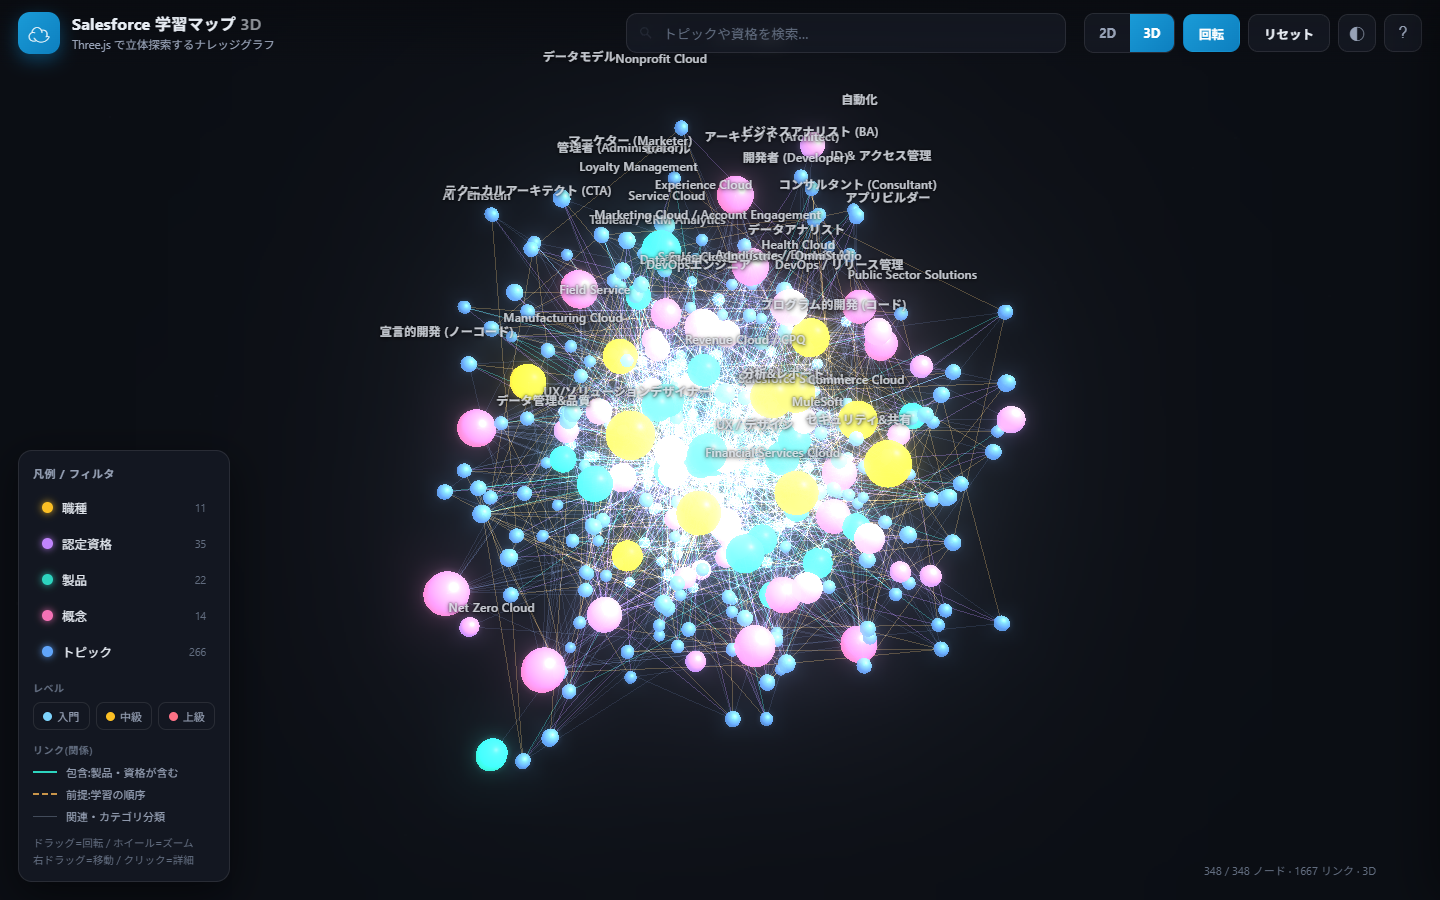
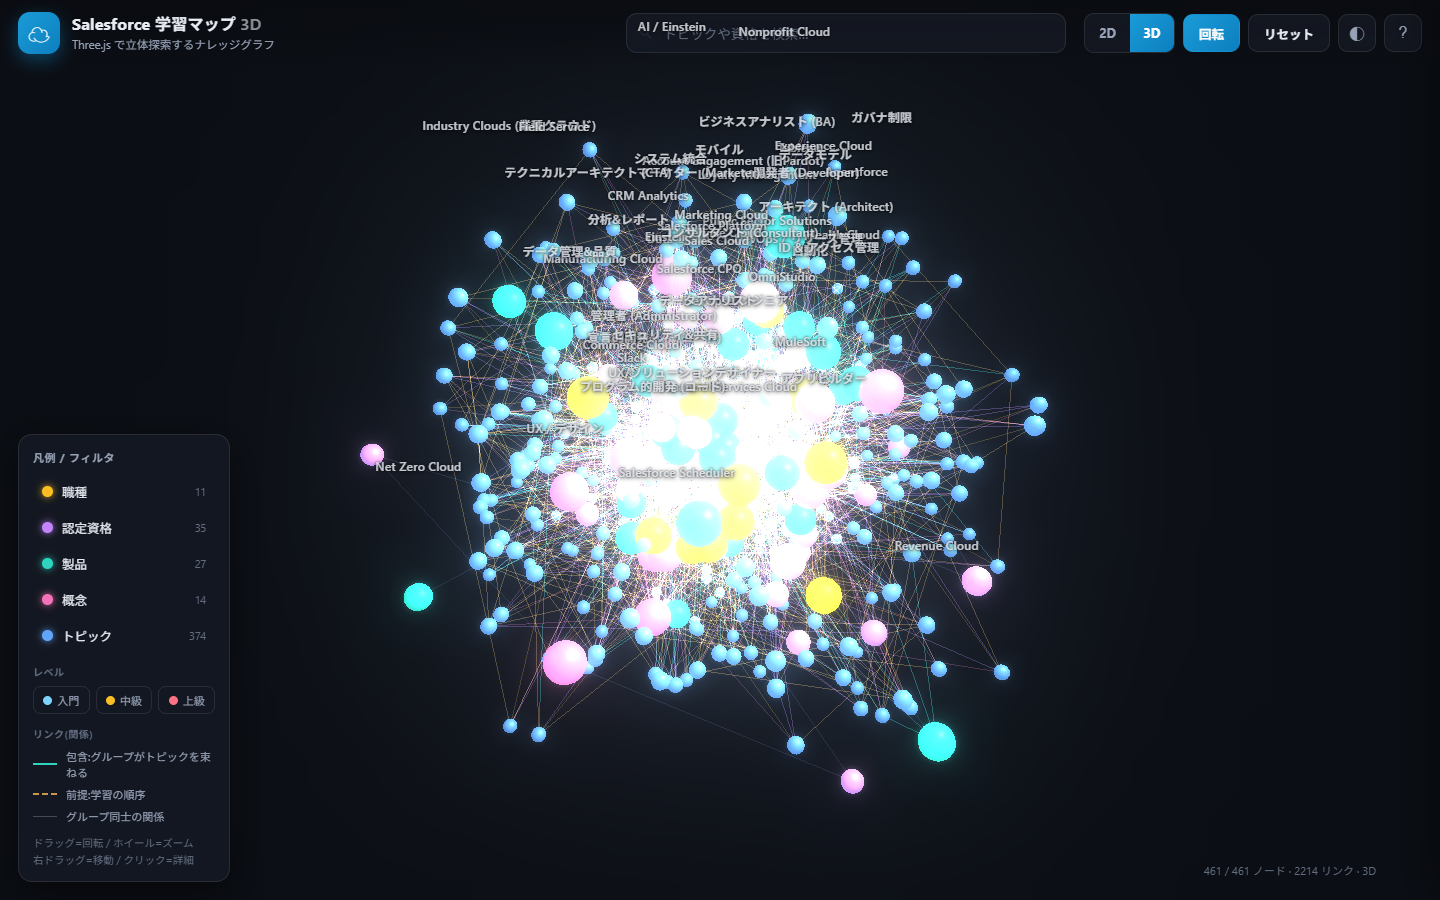
4種のアンカーをグループ(包含)化 + トピック大幅拡充 (461ノード/2214リンク)
- 製品・職種・認定資格・概念の4種すべてを「トピックを束ねるグループ(包含)」として扱う
  概念・職種のリンクもグループ色で描画し、包含関係を明示(2D/3D共通)
  詳細パネルの見出しを「所属する◯◯グループ」「このグループに含まれるトピック」に統一
- Fable 5で新トピック108件を追加生成(Sales/Service深掘り・管理者/自動化・開発/DevOps・マーケ/Data Cloud/AI/業種)
- 合計: アンカー87(製品27/職種11/資格35/概念14) + トピック374 = 461ノード / 2214リンク(破損0)
- 凡例・ヘルプの文言も4種グループ前提に更新

Claude-Session: https://claude.ai/code/session_01RafSPjKcgMNhc9CUvVL4re

diff --git a/js/app.js b/js/app.js
@@ -62,11 +62,12 @@
     (a.links || []).forEach(function (l) { addLink(a.id, l.to, 'anchor', 120, 0.10, l.rel); });
   });
   // topic <- anchor（包含・グルーピング）と topic → topic（前提）
+  // 製品・資格・概念・職種はすべて「トピックを束ねるグループ(包含)」として扱う
   var TOPIC_EDGE = {
-    product: { kind: 'contains', len: 92, strength: 0.17 },
-    cert:    { kind: 'covers',   len: 122, strength: 0.11 },
-    concept: { kind: 'category', len: 155, strength: 0.05 },
-    role:    { kind: 'role',     len: 155, strength: 0.05 }
+    product: { kind: 'contains', len: 92, strength: 0.16 },
+    cert:    { kind: 'covers',   len: 116, strength: 0.12 },
+    concept: { kind: 'category', len: 128, strength: 0.11 },
+    role:    { kind: 'role',     len: 138, strength: 0.09 }
   };
   topics.forEach(function (t) {
     (t.anchors || []).forEach(function (aid) {
@@ -188,12 +189,12 @@
   var ANCHOR_TITLE = { role: '関連する職種', cert: '関連する認定資格', product: '関連する製品', concept: '関連する概念', topic: '関連するトピック' };
   var REL_ORDER = ['inprod', 'incert', 'pin', 'pout', 'ctopics', 'covtopics', 'cattopics', 'roletopics', 't_role', 't_cert', 't_product', 't_concept', 'incat', 'inrole'];
   var REL_TITLE = {
-    inprod: '含まれる製品グループ', incert: 'この項目をカバーする資格',
+    inprod: '所属する製品グループ', incert: '所属する資格グループ',
+    incat: '所属する概念グループ', inrole: '所属する職種グループ',
     pin: '前提となる項目', pout: 'この後に学べる項目',
-    ctopics: '含まれる機能・トピック', covtopics: 'この資格がカバーするトピック',
-    cattopics: 'このカテゴリの学習トピック', roletopics: '関連する学習トピック',
-    t_role: '対象の職種', t_cert: '推奨・関連する資格', t_product: '関連する製品', t_concept: '関連する概念',
-    incat: 'カテゴリ(概念)', inrole: '関連する職種'
+    ctopics: '含まれる機能・トピック', covtopics: 'この資格に含まれるトピック',
+    cattopics: 'この概念グループに含まれるトピック', roletopics: 'この職種グループに含まれるトピック',
+    t_role: '対象の職種', t_cert: '推奨・関連する資格', t_product: '関連する製品', t_concept: '関連する概念'
   };
   function relKey(node, e) {
     var o = e.other, k = e.kind;

diff --git a/js/sfmap-core.js b/js/sfmap-core.js
@@ -18,11 +18,12 @@ window.SFMAPCore = (function () {
     intermediate: { label: '中級', color: '#fbbf24' },
     advanced: { label: '上級', color: '#fb7185' }
   };
+  // 製品・資格・概念・職種はすべて「トピックを束ねるグループ(包含)」として扱う
   var TOPIC_EDGE = {
-    product: { kind: 'contains', len: 92, strength: 0.17 },
-    cert:    { kind: 'covers',   len: 122, strength: 0.11 },
-    concept: { kind: 'category', len: 155, strength: 0.05 },
-    role:    { kind: 'role',     len: 155, strength: 0.05 }
+    product: { kind: 'contains', len: 92, strength: 0.16 },
+    cert:    { kind: 'covers',   len: 116, strength: 0.12 },
+    concept: { kind: 'category', len: 128, strength: 0.11 },
+    role:    { kind: 'role',     len: 138, strength: 0.09 }
   };
 
   function buildGraph() {
@@ -117,12 +118,12 @@ window.SFMAPCore = (function () {
 
   var REL_ORDER = ['inprod', 'incert', 'pin', 'pout', 'ctopics', 'covtopics', 'cattopics', 'roletopics', 't_role', 't_cert', 't_product', 't_concept', 'incat', 'inrole'];
   var REL_TITLE = {
-    inprod: '含まれる製品グループ', incert: 'この項目をカバーする資格',
+    inprod: '所属する製品グループ', incert: '所属する資格グループ',
+    incat: '所属する概念グループ', inrole: '所属する職種グループ',
     pin: '前提となる項目', pout: 'この後に学べる項目',
-    ctopics: '含まれる機能・トピック', covtopics: 'この資格がカバーするトピック',
-    cattopics: 'このカテゴリの学習トピック', roletopics: '関連する学習トピック',
-    t_role: '対象の職種', t_cert: '推奨・関連する資格', t_product: '関連する製品', t_concept: '関連する概念',
-    incat: 'カテゴリ(概念)', inrole: '関連する職種'
+    ctopics: '含まれる機能・トピック', covtopics: 'この資格に含まれるトピック',
+    cattopics: 'この概念グループに含まれるトピック', roletopics: 'この職種グループに含まれるトピック',
+    t_role: '対象の職種', t_cert: '推奨・関連する資格', t_product: '関連する製品', t_concept: '関連する概念'
   };
   function relKey(node, e) {
     var o = e.other, k = e.kind;

diff --git a/js/app3d.js b/js/app3d.js
@@ -103,9 +103,12 @@
   var GRAY = new THREE.Color(0x2b3448), AMBER = new THREE.Color(0xd0a24a);
   var lpos = new Float32Array(links.length * 6);
   var lcol = new Float32Array(links.length * 6);
+  // 製品/資格/概念/職種→トピックはグループ色で描く(包含)。前提=アンバー、アンカー間=グレー
   function baseLinkColor(l) {
-    if (l.kind === 'contains') return l.source.col.clone().multiplyScalar(0.55);
-    if (l.kind === 'covers') return l.source.col.clone().multiplyScalar(0.42);
+    if (l.kind === 'contains') return l.source.col.clone().multiplyScalar(0.5);
+    if (l.kind === 'covers') return l.source.col.clone().multiplyScalar(0.4);
+    if (l.kind === 'category') return l.source.col.clone().multiplyScalar(0.34);
+    if (l.kind === 'role') return l.source.col.clone().multiplyScalar(0.3);
     if (l.kind === 'prereq') return AMBER.clone().multiplyScalar(0.5);
     return GRAY.clone().multiplyScalar(0.6);
   }
@@ -122,7 +125,7 @@
       var l = links[i], c;
       if (hl) {
         if (hl[l.source.id] && hl[l.target.id]) {
-          c = (l.kind === 'prereq') ? AMBER : (l.kind === 'contains' || l.kind === 'covers') ? l.source.col : GRAY.clone().multiplyScalar(1.6);
+          c = (l.kind === 'prereq') ? AMBER : (l.kind === 'anchor') ? GRAY.clone().multiplyScalar(1.6) : l.source.col;
         } else { c = BLACK; }
       } else { c = l.baseCol; }
       lcol[i * 6] = c.r; lcol[i * 6 + 1] = c.g; lcol[i * 6 + 2] = c.b;

diff --git a/js/graph.js b/js/graph.js
@@ -417,11 +417,12 @@
   };
 
   // link kind → visual style. col:null = use source(group) node color
+  // 製品/資格/概念/職種→トピックは、いずれもグループ色で描く「包含」リンク
   var KIND = {
     contains: { a: 0.19, w: 1.5, dash: false, col: null, arrow: false },
-    covers:   { a: 0.11, w: 1.0, dash: false, col: null, arrow: false },
-    category: { a: 0.05, w: 0.8, dash: false, col: '#8089a0', arrow: false },
-    role:     { a: 0.05, w: 0.8, dash: false, col: '#8089a0', arrow: false },
+    covers:   { a: 0.13, w: 1.1, dash: false, col: null, arrow: false },
+    category: { a: 0.11, w: 1.0, dash: false, col: null, arrow: false },
+    role:     { a: 0.10, w: 1.0, dash: false, col: null, arrow: false },
     prereq:   { a: 0.15, w: 1.3, dash: true,  col: '#c9954a', arrow: true },
     anchor:   { a: 0.16, w: 1.2, dash: false, col: null, arrow: false }
   };

diff --git a/graph3d.html b/graph3d.html
@@ -62,9 +62,9 @@
     </div>
     <div class="legend-sub">リンク(関係)</div>
     <div id="legend-links" class="link-legend">
-      <div class="ll-row"><span class="ll-line contains"></span>包含:製品・資格が含む</div>
+      <div class="ll-row"><span class="ll-line contains"></span>包含:グループがトピックを束ねる</div>
       <div class="ll-row"><span class="ll-line prereq"></span>前提:学習の順序</div>
-      <div class="ll-row"><span class="ll-line rel"></span>関連・カテゴリ分類</div>
+      <div class="ll-row"><span class="ll-line rel"></span>グループ同士の関係</div>
     </div>
     <div class="legend-hint">ドラッグ=回転 / ホイール=ズーム<br>右ドラッグ=移動 / クリック=詳細</div>
   </aside>
@@ -87,7 +87,7 @@
       <ul>
         <li><b>ドラッグ</b>で視点を回転、<b>ホイール</b>でズーム、<b>右ドラッグ</b>で平行移動できます。</li>
         <li><b>ノードにマウスを重ねる</b>と名前が、<b>クリック</b>で右側に詳細と関連ノードが開きます。</li>
-        <li>色=種別(製品/職種/資格/概念/トピック)、線=関係(包含/前提/関連)。<b>製品・資格=グループ、トピック=最小単位</b>です。</li>
+        <li>色=種別。<b>製品・職種・資格・概念はすべて「グループ」</b>で、トピックはその中の<b>最小単位</b>です。線=グループ色の<b>包含</b>、矢印付き破線の<b>前提</b>、グループ同士の<b>関係</b>。</li>
         <li>凡例で種別・レベルを絞り込み、検索で項目を探せます。「回転」ボタンで自動回転を切替。</li>
       </ul>
       <h3>おすすめの入口</h3>

diff --git a/index.html b/index.html
@@ -48,9 +48,9 @@
     </div>
     <div class="legend-sub">リンク(関係)</div>
     <div id="legend-links" class="link-legend">
-      <div class="ll-row"><span class="ll-line contains"></span>包含:製品・資格が含む</div>
+      <div class="ll-row"><span class="ll-line contains"></span>包含:グループがトピックを束ねる</div>
       <div class="ll-row"><span class="ll-line prereq"></span>前提:学習の順序 →</div>
-      <div class="ll-row"><span class="ll-line rel"></span>関連・カテゴリ分類</div>
+      <div class="ll-row"><span class="ll-line rel"></span>グループ同士の関係</div>
     </div>
     <div class="legend-hint">クリック=詳細 / ドラッグ=移動<br>ホイール=ズーム / 背景ドラッグ=パン</div>
   </aside>
@@ -83,7 +83,7 @@
       <p>Salesforceを<strong>何から学べばいいか</strong>を一目で把握するための、Obsidian風インタラクティブ知識グラフです。</p>
       <ul>
         <li><b>ノードの色</b>は種別を表します:製品 / 職種 / 認定資格 / 概念 / トピック(具体的な学習項目)。</li>
-        <li><b>線(リンク)</b>には種類があります:<b>包含</b>(製品・資格が機能/トピックを含む=グループ)を表す色付きの実線、<b>前提</b>(学習の順序)を表す<b>矢印付きの破線</b>、<b>関連・分類</b>を表す淡い線。製品や資格は<b>グループ</b>、トピックは<b>最小単位</b>として構成しています。</li>
+        <li><b>製品・職種・認定資格・概念はすべて「グループ」</b>、トピックはその中に含まれる<b>最小単位</b>です。<b>線(リンク)</b>の種類:<b>包含</b>(グループがトピックを束ねる=グループ色の実線)、<b>前提</b>(学習の順序=矢印付きの破線)、<b>グループ同士の関係</b>(淡い線)。1つのトピックは複数のグループ(例:ある製品 × ある資格 × ある概念 × ある職種)に同時に所属します。</li>
         <li>各ノードの詳細パネルには <b>📚 参考ページ</b>(Trailhead・公式ヘルプ・開発者ドキュメント等)へのリンクを用意しています。</li>
         <li><b>ノードをクリック</b>すると、右側に詳細(概要・なぜ学ぶか・学習ステップ・つまずき・リソース)と関連ノードが開きます。</li>
         <li>まず <b>職種(オレンジ)</b> から入り、そこにつながる <b>資格(紫)</b> → <b>トピック(青)</b> をたどると学習ルートが見えます。</li>